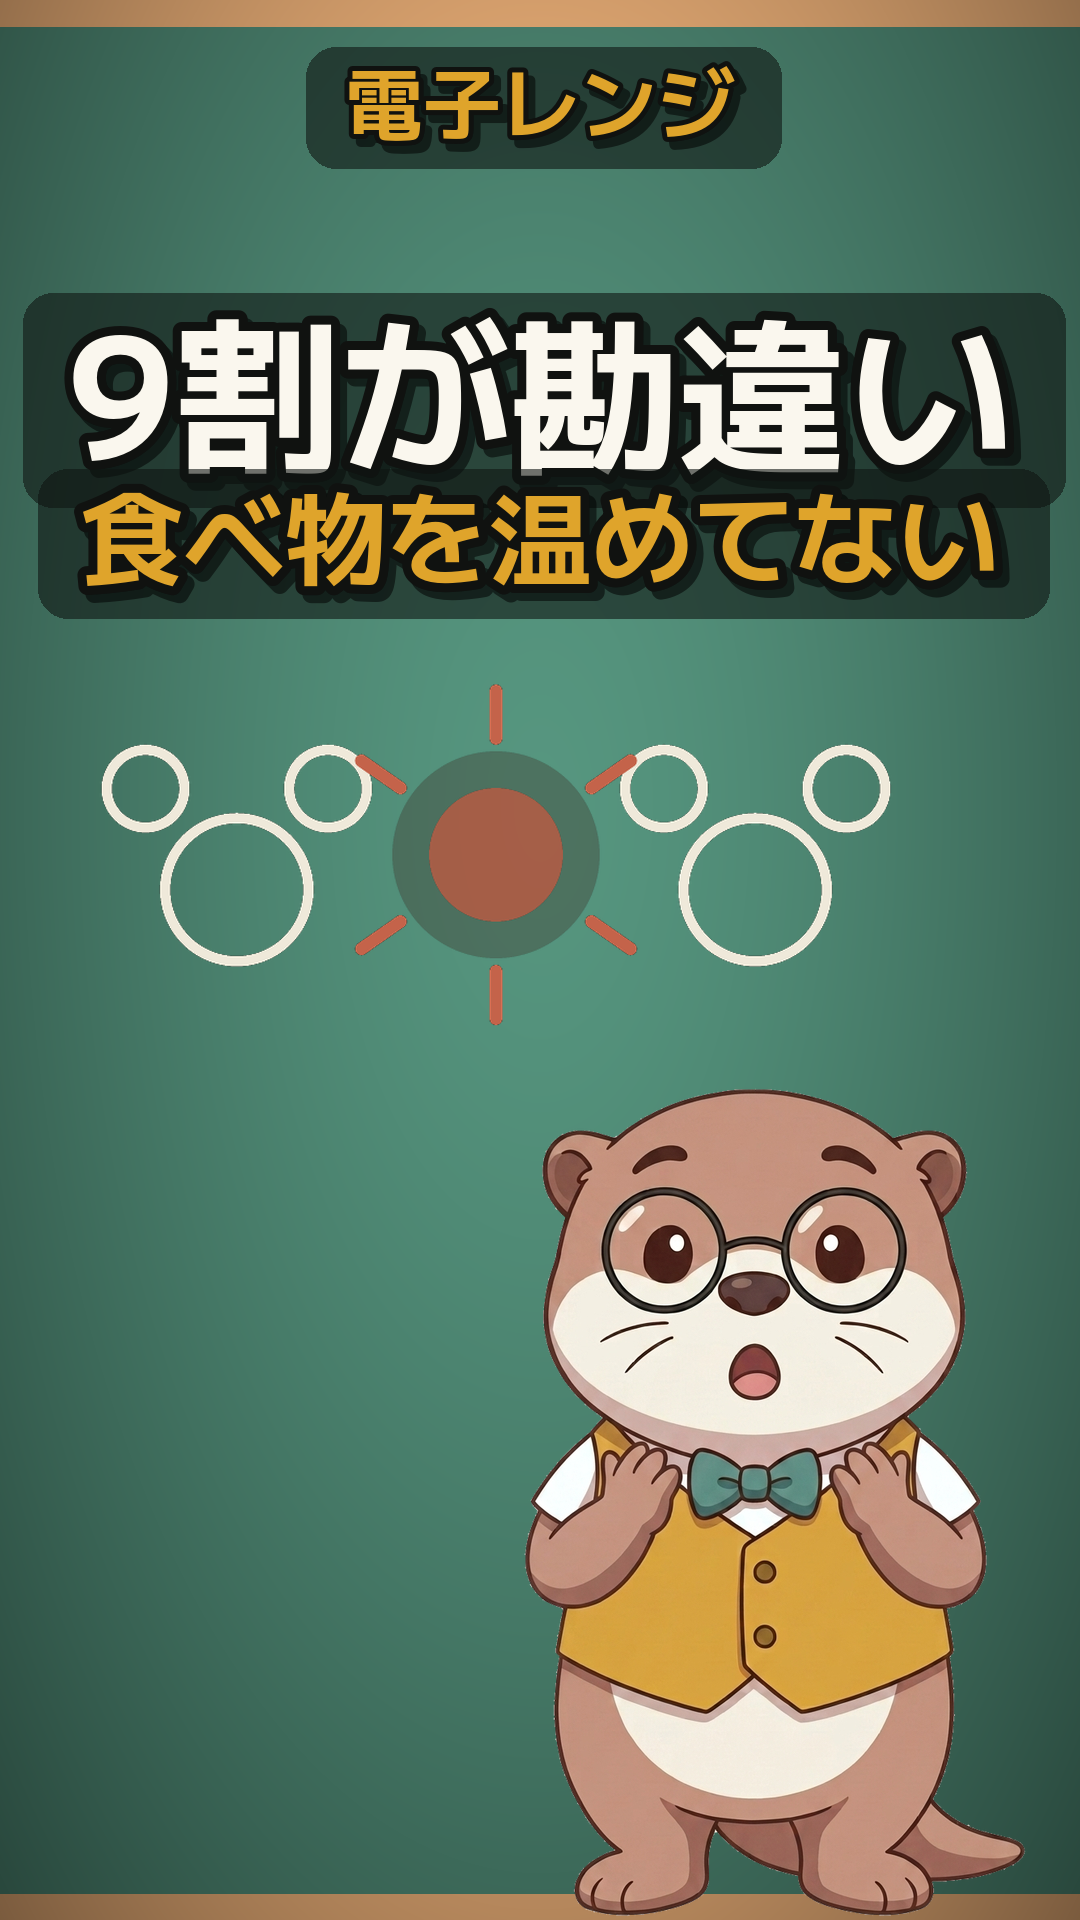
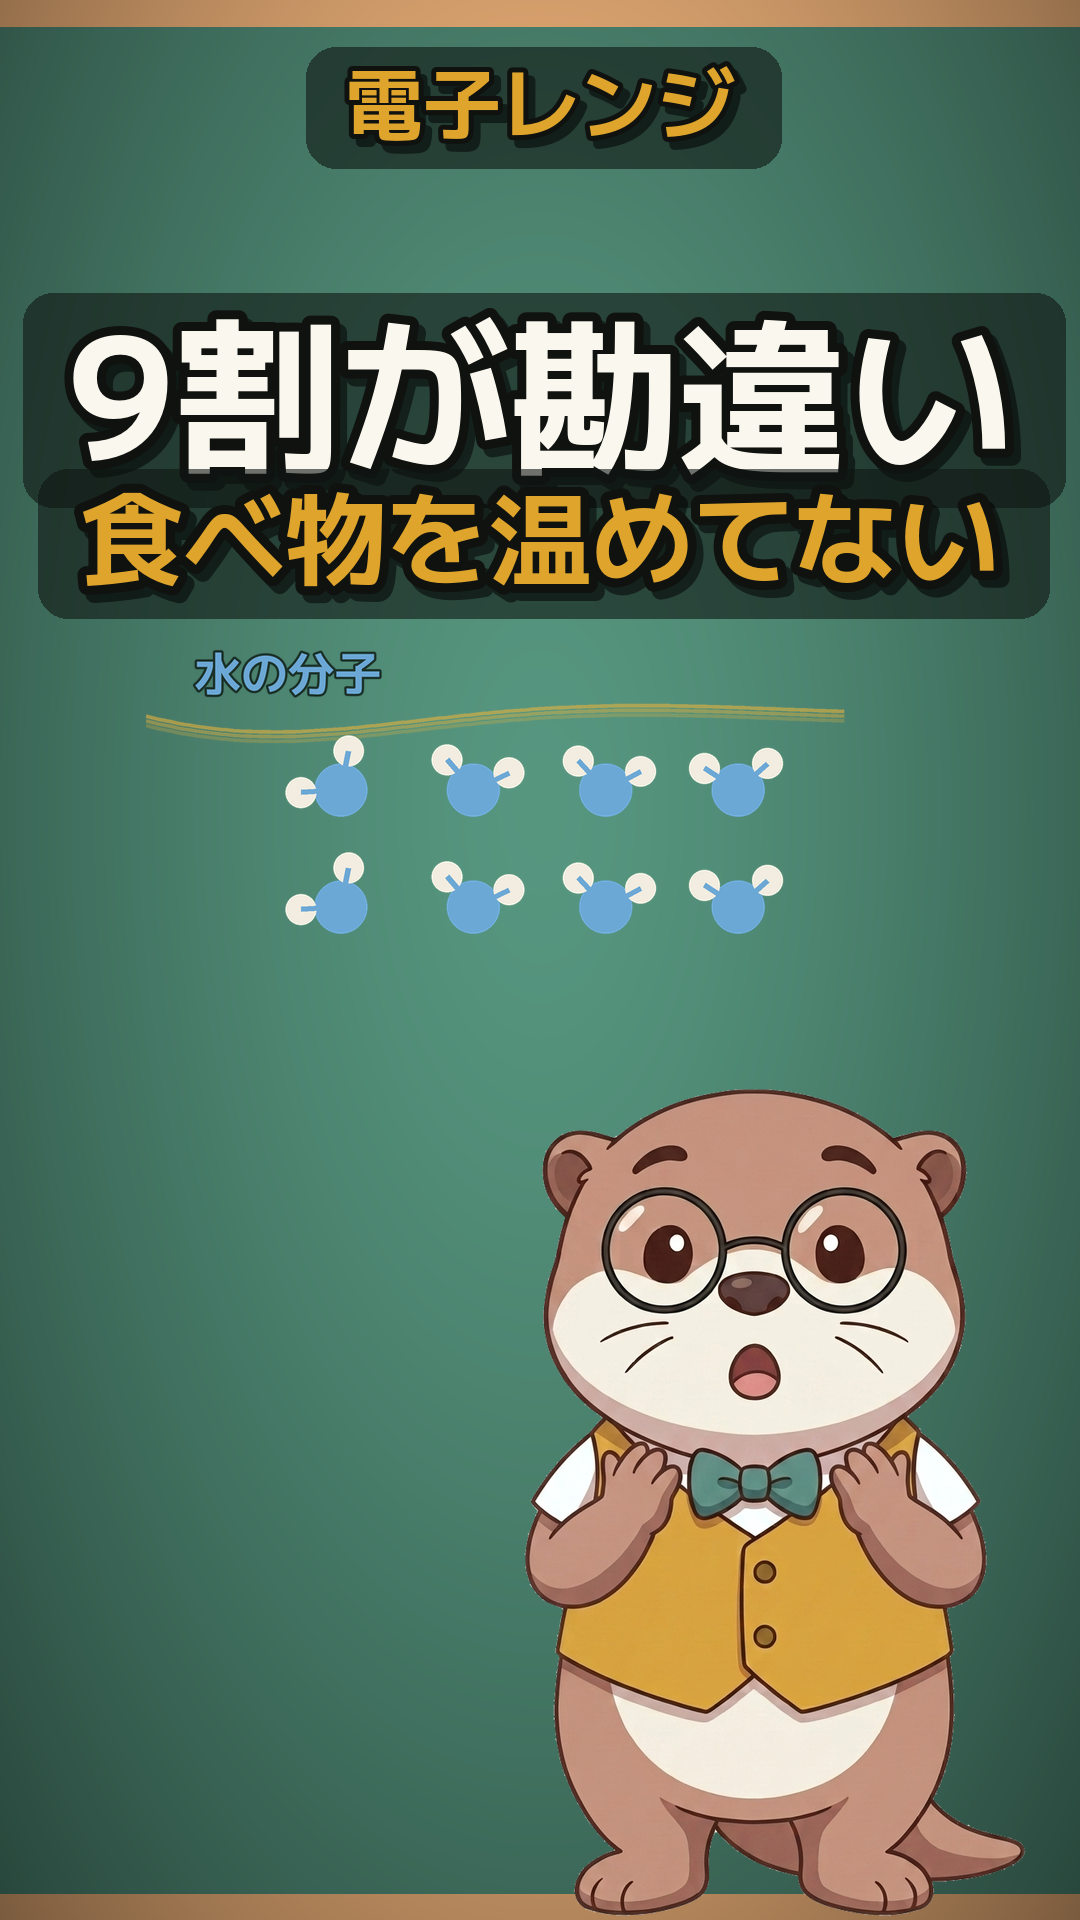
第1話の投稿用一式（タイトル・説明欄・タグ・TikTokキャプション）
サムネの図を差し替えた。02_collision.png は白い線画で、一覧の親指
サイズでは消えていた（mkthumb.py 自身のコメントに「線画は親指の
大きさでは消える」と書いてあったのに、それを選んでいた）。
動画で使っている色付きの分子（spin/）にした。

Claude-Session: https://claude.ai/code/session_01Tpidr51ynK34UA2s2MjVm2

Changed region(s): [[0.0917, 0.3125, 0.825, 0.5312]]

diff --git a/pipeline/mkthumb.py b/pipeline/mkthumb.py
@@ -51,7 +51,9 @@ EPS = [
          fig=None, face='surprise'),
     dict(file='thumb_ep01.png', label='電子レンジ',
          bg='board', lines=['9割が勘違い', '食べ物を温めてない'],
-         fig=('02_collision.png', None), face='surprise'),
+         # 02_collision.png は白い線画で、一覧の親指サイズでは消えていた。
+         # 動画で使っている色付きの分子（spin/）に差し替える。
+         fig=('spin/', 10), face='surprise'),
 ]
 
 TOP = 0.055          # 文字の上端（上寄せ。実測は上〜中央が33/40本）

diff --git a/docs/post_ep01.md b/docs/post_ep01.md
@@ -1,0 +1,100 @@
+# 第1話「電子レンジ」投稿用
+
+ファイル: `pipeline/ep01.mp4`（49.7秒 / 1080×1920 / 15.6MB）
+サムネ: `pipeline/brand/thumb_ep01.jpg`
+
+---
+
+## YouTube ショート
+
+**タイトル**（候補。上から推し）
+
+```
+電子レンジは食べ物を温めてない #shorts
+```
+```
+9割が知らない 電子レンジが温めてるもの #shorts
+```
+```
+電子レンジ、実は食べ物を温めてません #shorts
+```
+
+**説明欄**
+
+```
+電子レンジのボタンを押すと、食べ物が温まる。
+でも、電子レンジが温めているのは食べ物じゃありません。
+
+出ているのはマイクロ波という電波。
+これが水と油の分子だけを、1秒に24億回ゆさぶる。
+分子どうしがこすれ合って、熱が生まれる。
+
+だからお皿には、その水も油もない。
+お皿が熱いのは、食べ物から熱が移っただけです。
+
+ちなみに電子レンジが見つかったのは1945年。
+実験中、ポケットの中のお菓子が溶けたのがきっかけでした。
+
+次回は冷蔵庫。あれ、冷やしてません。
+
+#電子レンジ #雑学 #豆知識 #科学 #shorts
+```
+
+**タグ**（YouTube Studio の「タグ」欄）
+
+```
+電子レンジ, 雑学, 豆知識, 科学, ゆっくり解説, 身の回りの仕組み, マイクロ波, shorts
+```
+
+**設定**
+
+| 項目 | 値 |
+|---|---|
+| カテゴリ | 科学と技術 |
+| 動画の言語 | 日本語 |
+| 子ども向け | いいえ |
+| 公開 | 公開 |
+
+---
+
+## TikTok
+
+**キャプション**（本文＋ハッシュタグで140字以内）
+
+```
+電子レンジ、食べ物を温めてません。
+温めてるのは水と油。1秒に24億回ゆさぶってます。
+だからお皿は熱くならないはず…なのに熱い理由は動画で。
+
+#電子レンジ #雑学 #豆知識 #科学 #トリビア #勉強
+```
+
+---
+
+## 第2話（飛行機）の固定コメント
+
+まだ貼っていなければ、こちらも。
+
+```
+補足：「形は関係ない」は言い過ぎでした。すんません。
+正しくは「学校で習う"上の空気が速いから"という説明が間違い」で、
+翼の形は効率・失速のしにくさに大きく効きます。
+飛ぶ原理そのものは、空気を下に押した反作用です。
+```
+
+---
+
+## 出したあとに見るもの
+
+第2話の実データはこうだった。同じ所を見れば、今回の直しが効いたか分かる。
+
+| 指標 | 第2話 | 見かた |
+|---|---|---|
+| 平均視聴率 | 102.7% | 100%超え＝ループしている。ここが下がったら中身が弱い |
+| 冒頭離脱 | 43.2% | 0〜2秒で消えた割合。今回いじったのはここ |
+| エンゲージメント継続 | 60.5% | 最後まで見た側 |
+
+今回の第1話で変えたのは冒頭2秒:
+- 0秒から図が動く（前は静止画スタート、実測では21本中18本が0秒で動いている）
+- 1.10秒で最初のカット（前は最初のカットが1.76秒だった）
+- 0秒の1コマ目が空だったバグを修正
